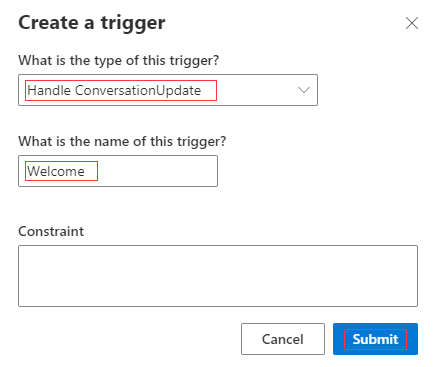
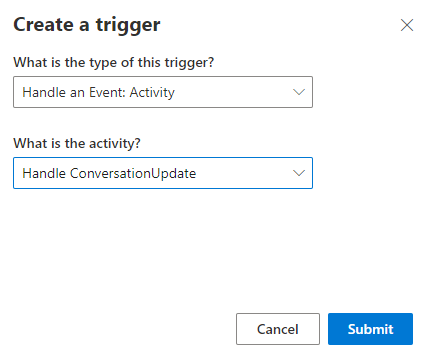
updates

diff --git a/docs/howto-defining-triggers.md b/docs/howto-defining-triggers.md
@@ -1,67 +1,83 @@
-# Defining Triggers and Events
-Each dialog in Composer includes a set of triggers/event handlers that contain instructions for how the bot will respond to inputs received when the dialog is active. There are several different types of event handlers available in the Composer menu. They all work in a similar manner, and in some cases, can be interchanged. In this article, we will walk you through how to define each type of the triggers.  
+# Defining Triggers 
+Each dialog in Composer includes a set of triggers (event handlers) that contain instructions for how the bot will respond to inputs received when the dialog is active. There are several different types of event handlers available in the Composer menu. They all work in a similar manner and can be interchanged in some cases. In this article, we will walk you through how to define each type of the triggers. If you are not familar with events and triggers in Bot Framework Composer, please read the [events and triggers concept article](https://github.com/microsoft/BotFramework-Composer/blob/kaiqb/Ignite2019/docs/concept-events-and-triggers-draft.md). 
+
+The table below lists the five different types of triggers provided in BF Composer and their descriptions. 
 
 | Trigger Type       | Description   |  
 | -------------------- |-------------- |
-| `Handle an Intent`       | define the actions to take when an **Intent** is recognized (and optionally **entities**) |
-| `Handle Unknown Intent`       | define the actions to taken when no intent is recognized  |
-| `Handle a Dialog Event`      | define a rule for an event which is triggered by some source|
-| `Handle an Event: Activity`    | define actions to handle an activity event such as `ConversationUpdate` |
-|`Handle a custom event` |    |
-
-## Prerequisites 
-- Bot Framework Composer 
-- Basic knowledge of events and triggers ([events and triggers concept article](https://github.com/microsoft/BotFramework-Composer/blob/kaiqb/Ignite2019/docs/concept-events-and-triggers-draft.md))
-- LUIS authoring key ([where to find](https://docs.microsoft.com/en-us/azure/cognitive-services/luis/luis-concept-keys?tabs=V2#programmatic-key))
+| `Handle an Intent`       | To define the actions to take when an **Intent** is recognized (and optionally **entities**) |
+| `Handle Unknown Intent`       | To define the actions to taken when no intent is recognized  |
+| `Handle a Dialog Event`      | To define the actions to take when a dialog event such as `BeginDialog` is fired |
+| `Handle an Event: Activity`    | To define the actions to take when an activity event such as `ConversationUpdate` is fired |
+|`Handle a custom event` |  n/a  |
 
 ## Defining `Handle an Intent`
-`Handle an Intent` defines the actions to take when an **Intent** is recognized (and optionally **entities**). To create a `Handle an Intent` trigger, you need to define the intents in the dialog with either LUIS recognizer or RegEx recognizer (this must be done before creating a `Handle an Intent` trigger) Please refer to the [events and triggers concept]() article for steps to define an intent with LUIS recognizer and RegEx recognizer. 
 
-Following the steps to define a `Handle an Intent` trigger: 
+`Handle an Intent` defines the actions to take when an **Intent** is recognized (and optionally **entities**). Before defining a `Handle an Intent` trigger you need to select the dialog you want to define the trigger and follow the two steps: 
 
-### 1. Create a `Handle an Intent` trigger
-On the left side of the Composer, click **New Trigger** on the menu. Select **Handle an Intent** option from the drop-down menu. Define a name for the trigger and click **submit**. 
+### Select a recognizer (LUIS / Regular Expression) type 
 
-![create_intent_trigger](./media/events_triggers/create_intent_trigger.gif)
+![recognizer_type](./media/events_triggers/recognizer_type.png)
 
-### 2. Configure the trigger with the pre-defined intent
-On the right side of the Composer, select **BookFlight** intent from the **intent** drop down menu. 
+### Define an intent(s) in the language understanding inline editor 
 
-![configure_intent_trigger](./media/events_triggers/configure_intent_trigger.gif)   
+![LUIS_intent](./media/events_triggers/LUIS_intent.png) 
 
-### 3. Add an action node to the event handler 
-Under the trigger node, click the "+" sign to add the action node you want to include. For example, you can click **Send Messages** and then **Send an Activity** to send a message authored in [LG format](https://github.com/microsoft/BotBuilder-Samples/blob/master/experimental/language-generation/docs/lg-file-format.md). 
+After the recognizer is selected and the intents are defined, you can follow the following steps to create a `Handle an Intent` trigger and configure the trigger with pre-defined intents. 
+
+### Create a `Handle an Intent` trigger
+On the left side of the Composer menu, click **New Trigger** and then select **Handle an Intent** from the drop-down menu. Select the intent you want to handle and click **submit**. 
+
+![intent_configure](./media/events_triggers/intent_configure.png)
+
+### Add an action(s) to the trigger 
+Under the `Handle an Intent` trigger node, click the "+" sign to add the action node(s) you want to include. For example, you can click **Send Messages** and then **Send an Activity** to send a message authored in [LG file format](https://github.com/microsoft/BotBuilder-Samples/blob/master/experimental/language-generation/docs/lg-file-format.md). 
 
 ![add_action_node](./media/events_triggers/add_action_node.gif)  
 
 ## Defining `Handle Unknown Intent`
-`Handle Unknown Intent` defines the actions to take when an utterence is not recognized (aka, the None Intent). Unlike `Handle an Intent` trigger, you do not need to define any intents before defining an `Handle Unknown Intent` and therefore no need to configure the trigger to any intent. Please note that an "UnknownIntent" will defer to any specific intent that fires in a parent dialog. 
+`Handle Unknown Intent` defines the actions to take when an utterence is not recognized (the None Intent). Unlike `Handle an Intent` trigger, you do not need to define any intents before defining the `Handle Unknown Intent` trigger. Please note that an "UnknownIntent" will defer to any specific intent that fires in a parent dialog. 
 
-To define a `Handle Unknown Intent` trigger, you DON'T need to:
+To define a `Handle Unknown Intent` trigger, follow the steps:
 
-- define any intent before defining an `Handle Unknown Intent` 
-- configure the `Handle Unknown Intent` trigger to any intent 
+### Create a `Handle Unknown Intent` trigger 
+On the left side of the Composer menu, click **New Trigger** and select **Handle Unknown Intent** from the drop-down menu. Click **submit**. 
 
-You need to:
-- define actions to handle the unknown intents.
+![unknown_intent](./media/events_triggers/unknown_intent.png)  
 
-You can refer to the [Cards_Samples](https://github.com/microsoft/BotFramework-Composer/tree/master/SampleBots/Cards_Samples/ComposerDialogs) to learn more about how to define and use `Handle an Intent` to model your bot's converation. 
+### Add an action(s) to the trigger
+Under the `Handle Unknown Intent` trigger node, click the "+" sign to add the action node(s) you want to include. For example, you can click **Send Messages** and then **Send an Activity** to send a message authored in [LG file format](https://github.com/microsoft/BotBuilder-Samples/blob/master/experimental/language-generation/docs/lg-file-format.md). 
+
+![unknown_intent](./media/events_triggers/unknown_intent.gif)  
 
 ## Defining `Handle a Dialog Event`
+To define the actions to take when a dialog event such as `BeginDialog` is fired. Most dialogs will include an event handler configured to respond to the `BeginDialog` event, which fires when the dialog begins and allows the bot to respond immediately. Follow the steps below to define a `Handle a Dialog Event` trigger and add `BeginDialog` activity to the trigger. 
 
-Most dialogs will include an event handler configured to respond to the `BeginDialog` event, which fires when the dialog begins and allows the bot to respond immediately. When you create a new child dialog, the `Handle an Event: BeginDialog` trigger is initialized by default. Like any other type of triggers, you can define actions to take in the `Handle an Event: BeginDialog` trigger.  
+### Create a `Handle a Dialog Event` trigger
+On the left side of the Composer menu, click **New Trigger** and then select **Handle a Dialog Event** from the drop-down menu. Select the dialog event you want to handle and click **submit**. For example, let's choose `Handle a Dialog Event: BeginDialog`. 
+
+![handle_dialog_event](./media/events_triggers/handle_dialog_event.png)  
+
+### Add a dialog action(s) to the trigger
+Under the `Handle a Dialog Event` trigger, click the "+" sign to add the action node(s) you want to include. For example, let's select `Begin a Dialog` activity to begin a dialog. 
+
+![begin_dialog](./media/events_triggers/begin_dialog.png) 
+
+Configure a dialog to the`Begin a Dialog` activity. 
+
+![configure_dialog](./media/events_triggers/configure_dialog.gif) 
 
 ## Defining `Handle an Event: Activity`
 
-`Handle an Event: Activity` is a type of trigger to handle activity events such as sending a greeting message when a bot runs. It is used to do something immediately when a bot starts and before any other events are triggered. The following steps show how to define a `Handle an Event: Activity` trigger to handle a `ConversationUpdate` activity in a dialog to send a "welcome" message. 
+`Handle an Event: Activity` is a type of trigger used to handle activity events such as a `Handle ConversationUpdate` activity. The following steps show how to define a `Handle an Event: Activity` trigger to handle a `ConversationUpdate` activity in a dialog to send a "welcome" message. 
 
-### 1. Create a `Handle ConversationUpdate` trigger
-In the dialog menu, click **New Trigger** and select **Handle ConversationUpdate** option from the drop-down menu. Define the name for the trigger such as **welcome** and then click **submit**. 
+### Create a `Handle an Event: Activity` trigger
+In the dialog menu, click **New Trigger** and select `Handle an Event: Activity` from the drop-down menu. Select `Handle ConversationUpdate` activity and then click **submit**. 
 
-![events_triggers](./media/events_triggers/conversationupdate1.gif)
+![events_triggers](./media/events_triggers/conversationUpdate.png)
 
-### 2. Add an action node to the trigger
-In the `Handle ConversationUpdate` trigger, click the "+" sign to add the action node you want to include. For example, let's click **Send Messages** and then **Send an Activity** to send a welcome message. You can define response messages following the [.LG file format](https://github.com/microsoft/BotBuilder-Samples/blob/master/experimental/language-generation/docs/lg-file-format.md) in the language generation editor. 
+### Add an action node to the trigger
+In the `Handle ConversationUpdate` trigger node, click the "+" sign to add the action node you want to include. For example, let's click **Send Messages** and then **Send an Activity** to send a welcome message. You can define response messages following the [.LG file format](https://github.com/microsoft/BotBuilder-Samples/blob/master/experimental/language-generation/docs/lg-file-format.md) in the language generation editor. 
 
 ![events_triggers](./media/events_triggers/conversationupdate2.gif)
 
@@ -73,4 +89,4 @@ TBD
 
 
 ## Next 
-[Use Memory](https://github.com/microsoft/BotFramework-Composer/blob/master/docs/using_memory.md)
+[Language Generation](https://github.com/microsoft/BotFramework-Composer/blob/kaiqb/Ignite2019/docs/concept-language-genereation-draft.md)
